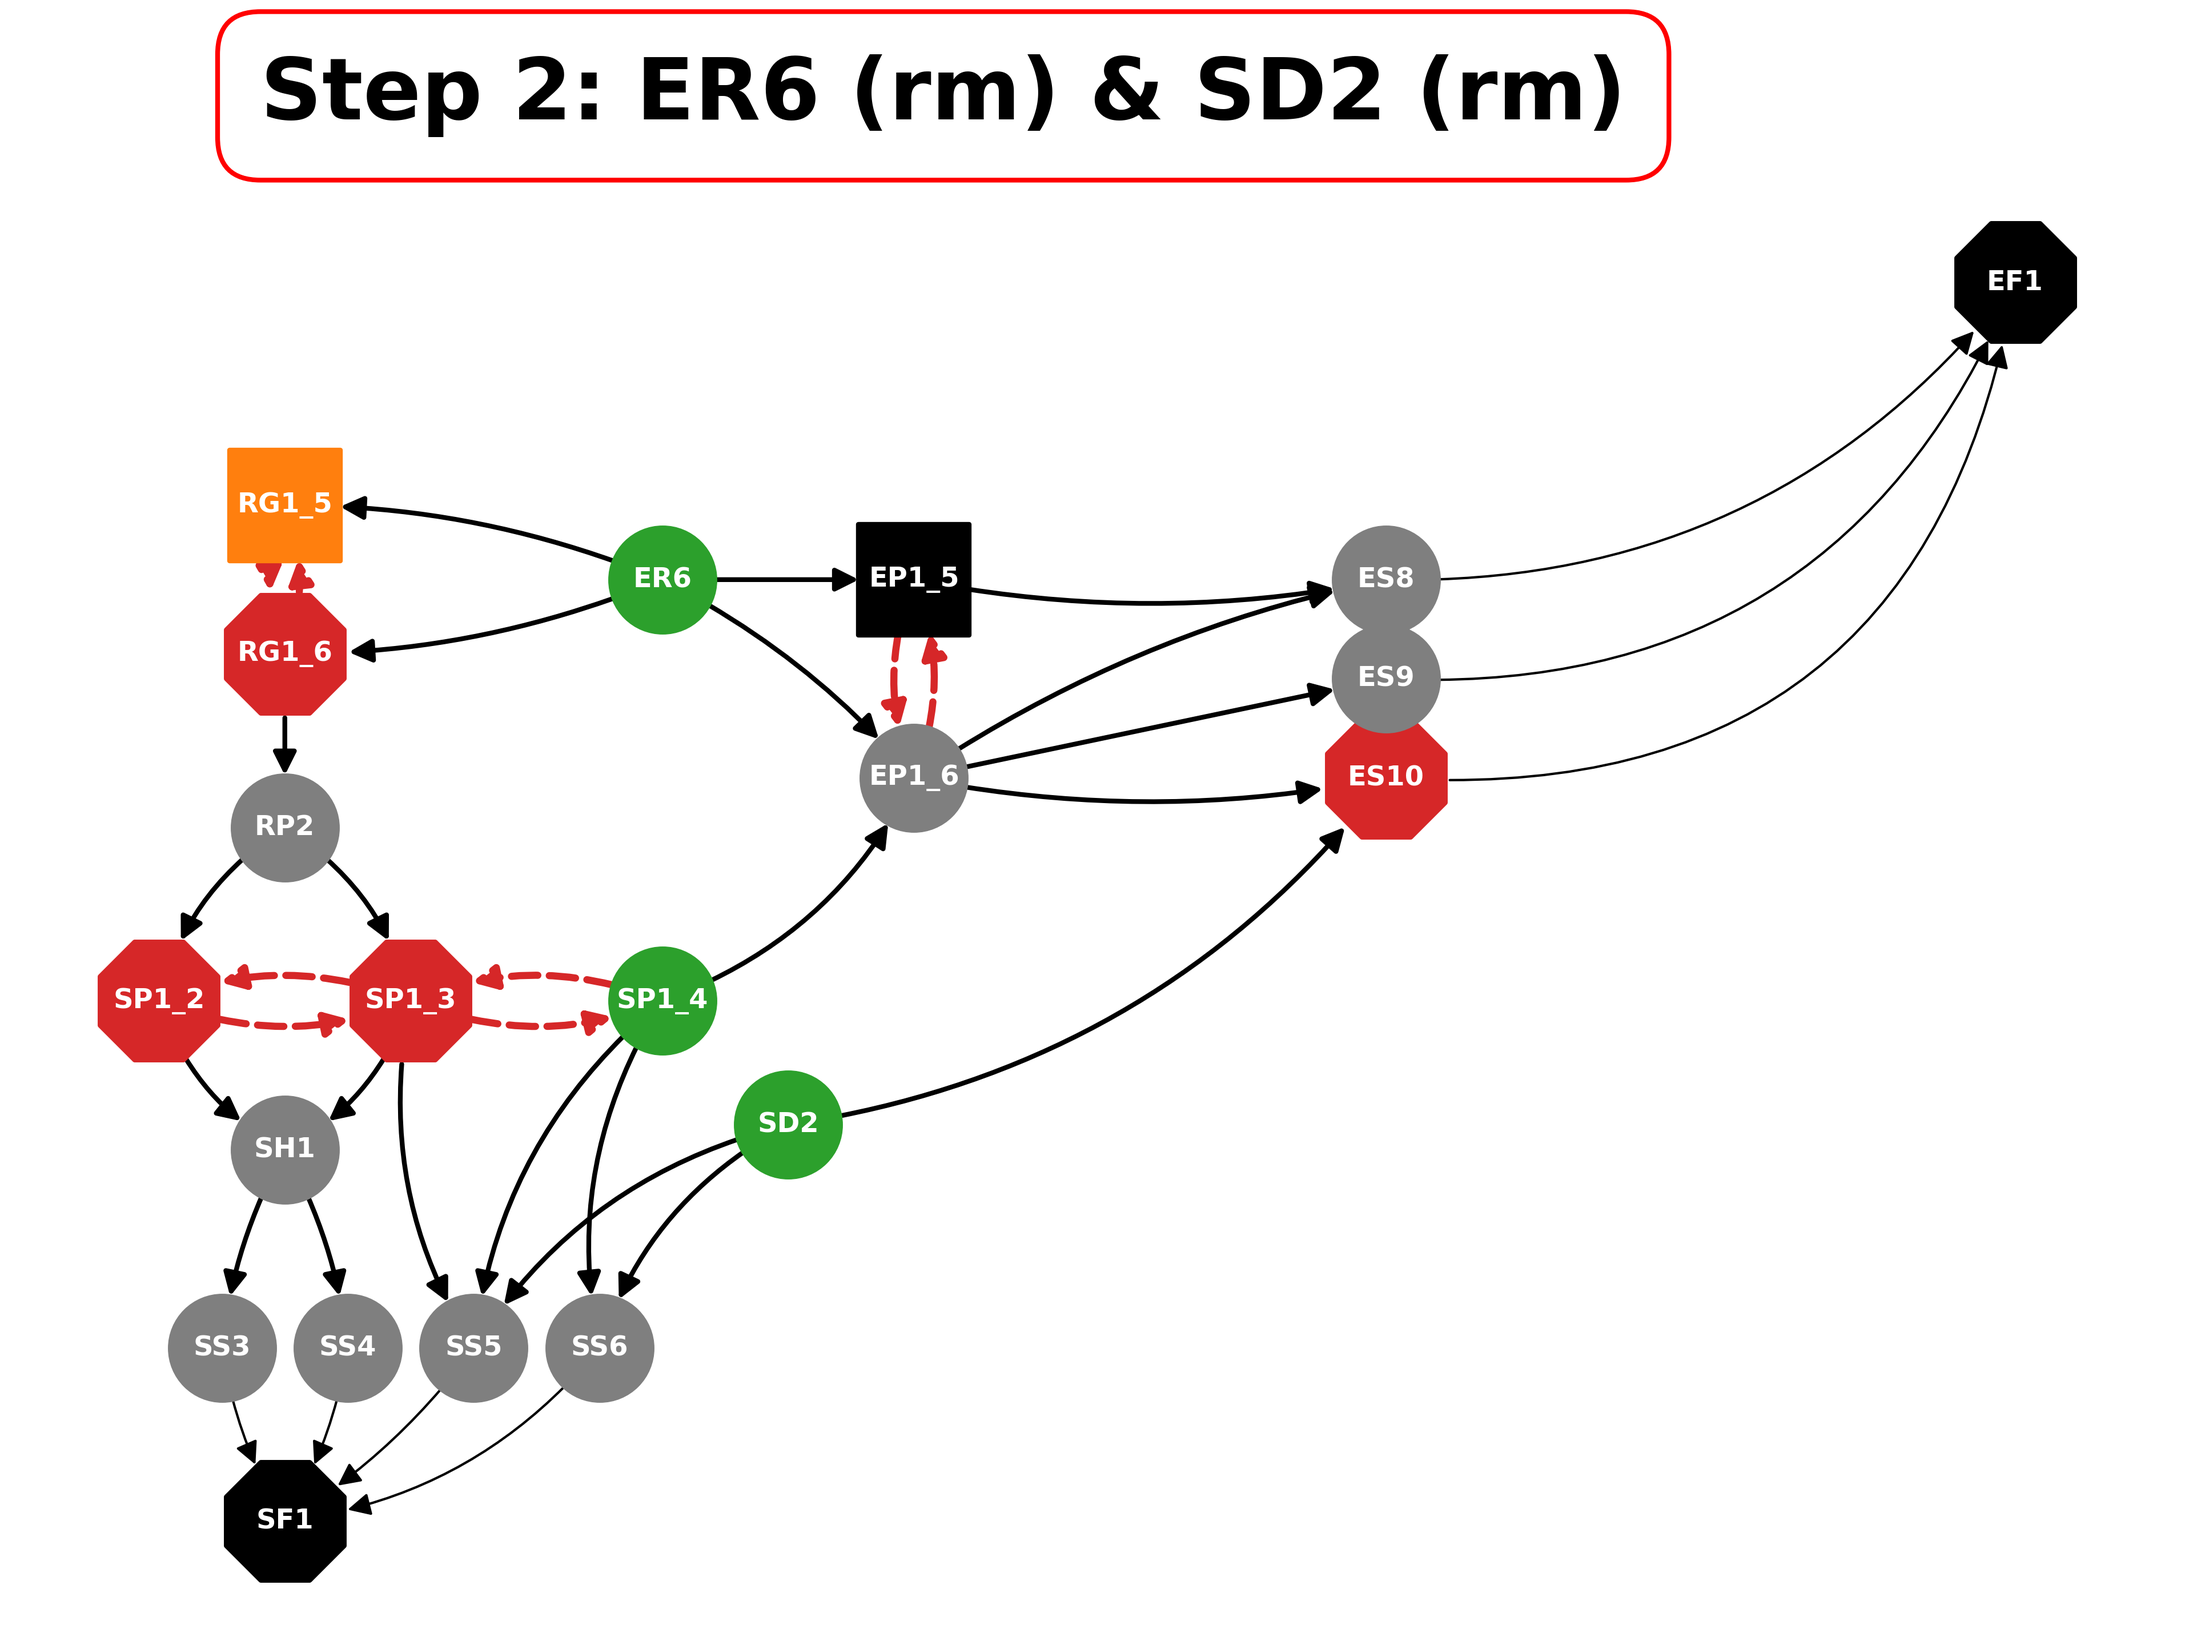
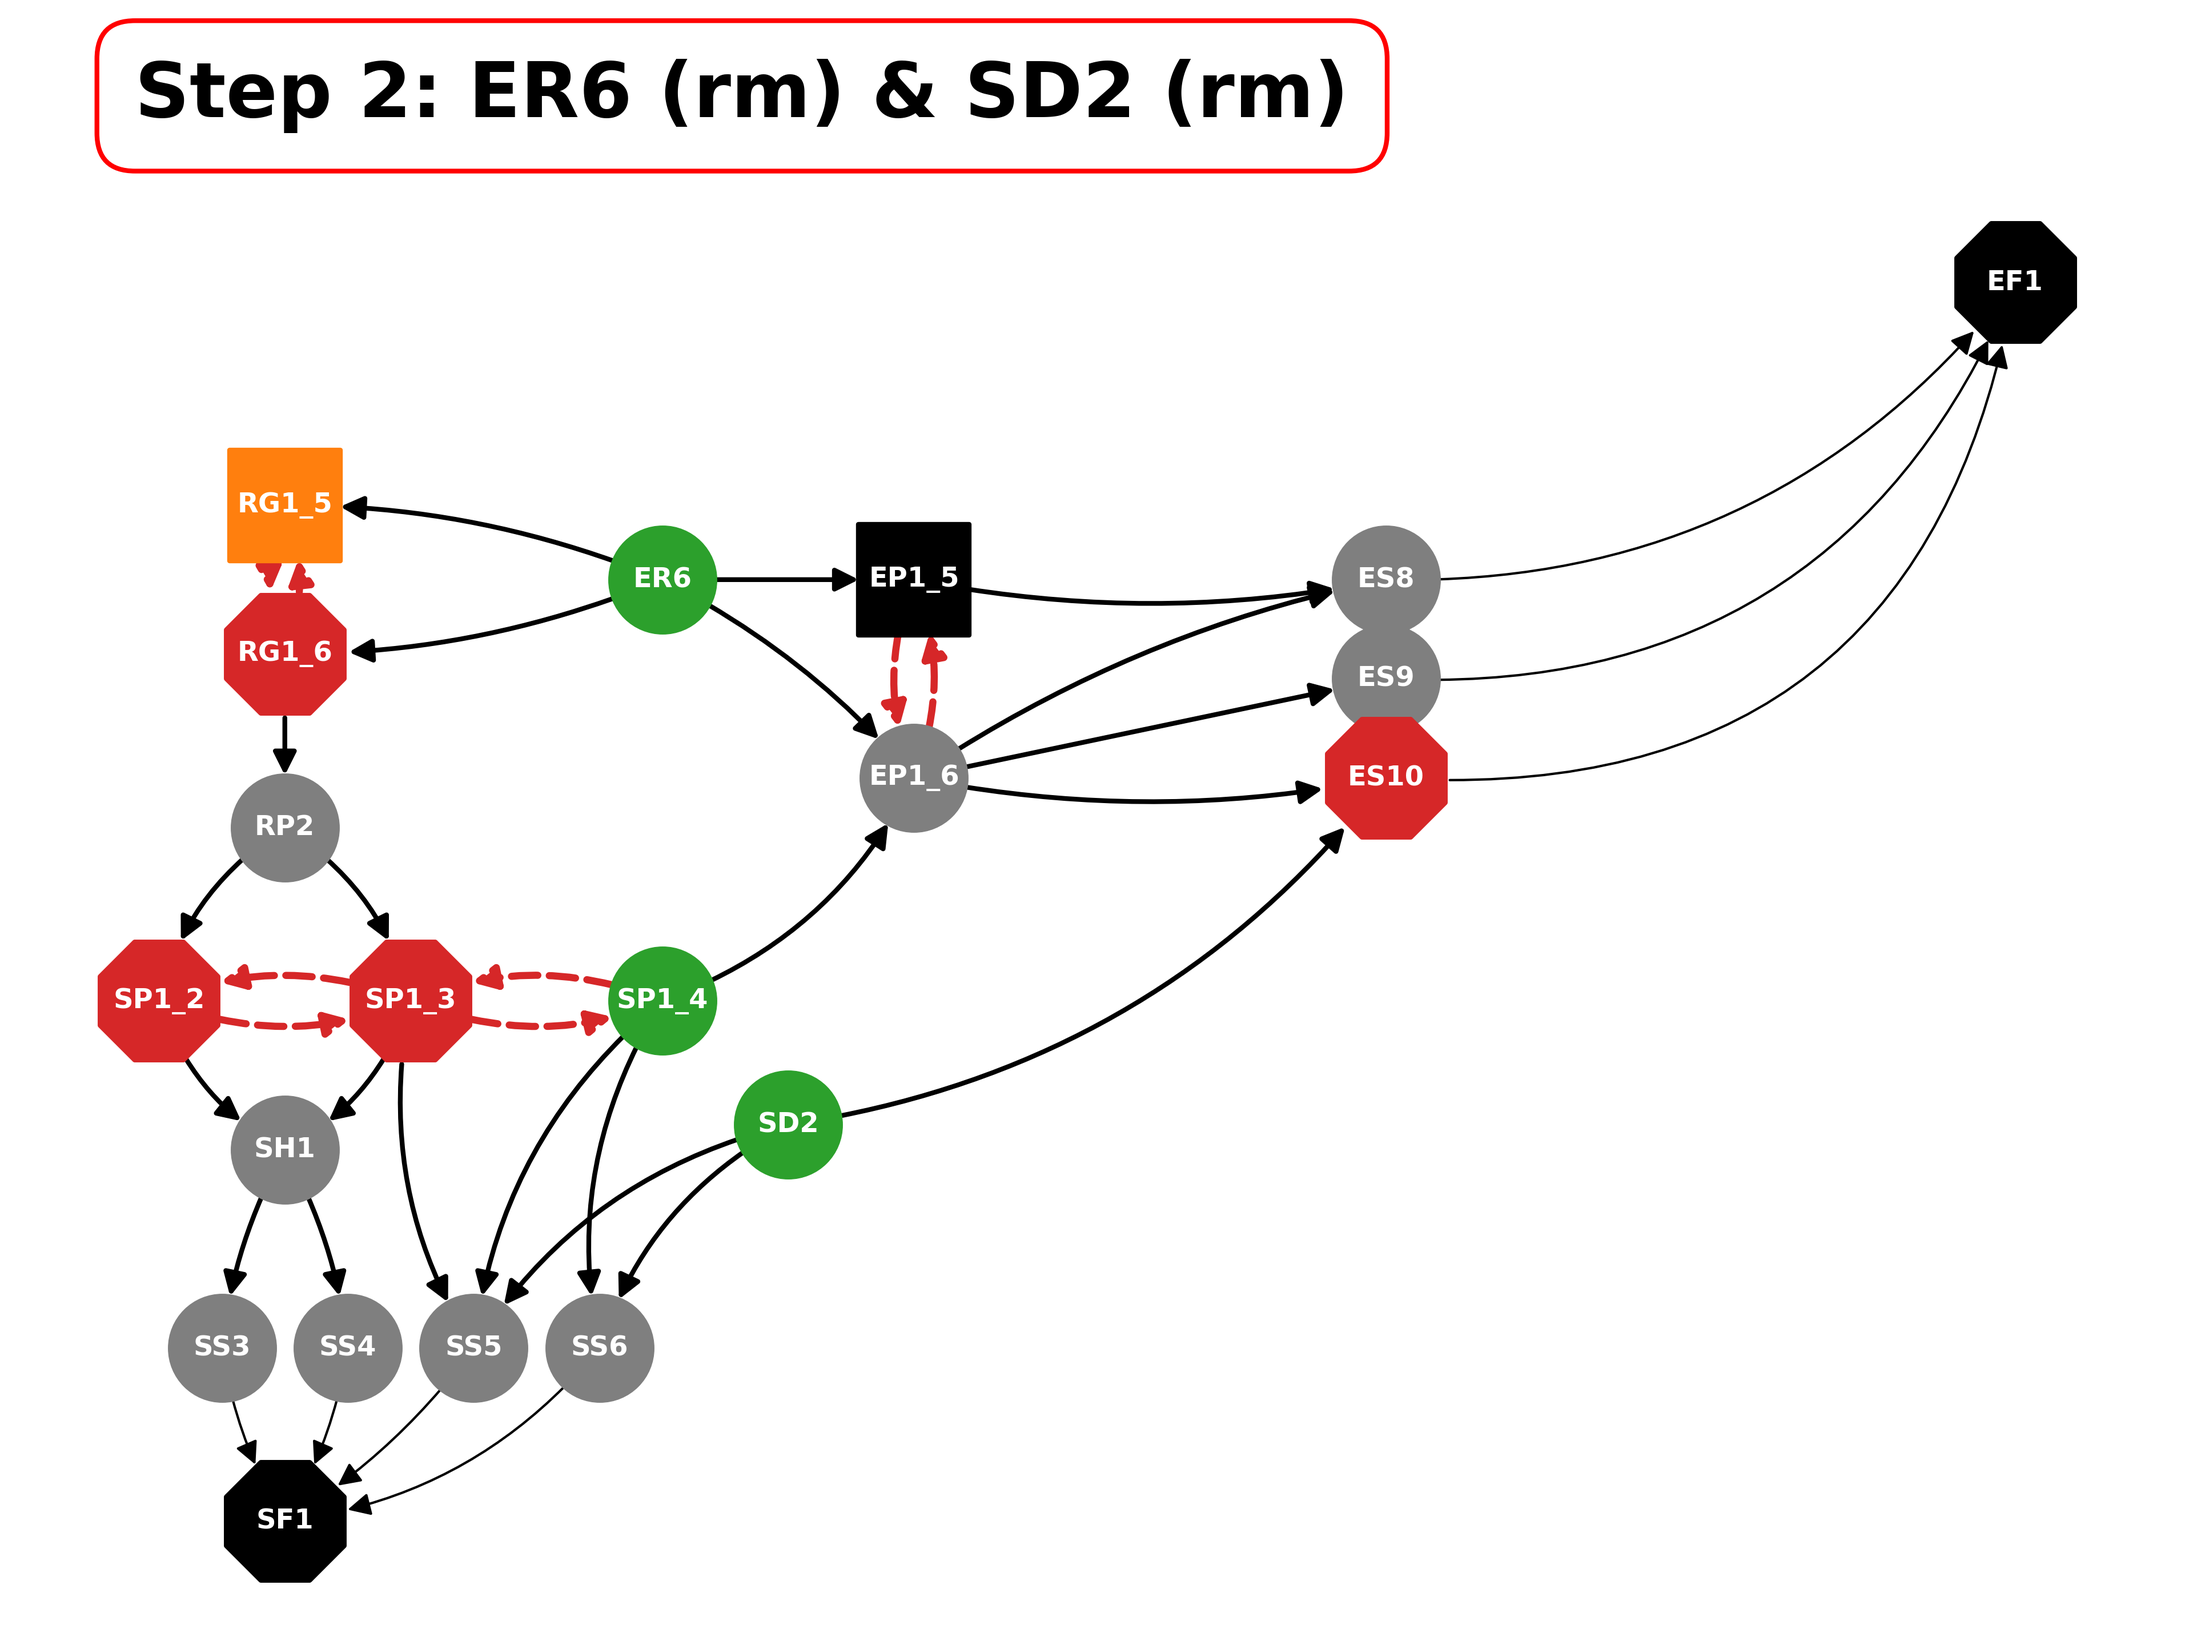
finished phase 2

Changed region(s): [[0.0625, 0.0, 0.75, 0.125], [0.625, 0.4375, 0.6562, 0.4688]]

diff --git a/main.py b/main.py
@@ -10,7 +10,7 @@ from src.drawing import draw_graph
 
 
 if __name__ == "__main__":
-    phase_number = "2a"
+    phase_number = "2b"
     num_agents = 3
     f_in = "P{}_data_in".format(phase_number)
     f_out = "P{}_graphs_out".format(phase_number)
@@ -33,10 +33,10 @@ if __name__ == "__main__":
     # rm_membs = ["SS1"]  # Phase 1
     # rm_membs = ["WS9", "SS1"]  # Phase 1
     # rm_membs = ["SS3", "SS1"]  # Phase 1
-    rm_membs = ["SP1_2", "SP1_3", "SP1_4"]  # Phase 2a_1
-    rm_membs = ["SP1_4", "ES10", "SP1_2", "SP1_3"]  # Phase 2a_2
-    rm_membs = ["SP1_4", "ES10", "SP1_2", "SP1_3", "RG1_6"]  # Phase 2a_3
-    # rm_membs = ["SP1_2", "SP1_3", "RG1_6"]  # Phase 2b
+    # rm_membs = ["SP1_2", "SP1_3", "SP1_4"]  # Phase 2a_1
+    # rm_membs = ["SP1_4", "ES10", "SP1_2", "SP1_3"]  # Phase 2a_2
+    # rm_membs = ["SP1_4", "ES10", "SP1_2", "SP1_3", "RG1_6"]  # Phase 2a_3
+    rm_membs = ["SP1_2", "SP1_3", "RG1_6"]  # Phase 2b
 
     Ks = bld_subg_single_remove(G, rm_membs)
 
@@ -73,7 +73,7 @@ if __name__ == "__main__":
     for i, K_reduced in enumerate(K_reduced_list):
         draw_graph(
             G=K_reduced,
-            filepath="{}/_{}_STEP{}".format(f_out, name, i + 1),
+            filepath="{}/_{}_STEP{}".format(f_out, name, i + 9),
             scale=1.2,
             plt_show=True,
             plt_save=True,

diff --git a/src/algo_sequence.py b/src/algo_sequence.py
@@ -20,6 +20,16 @@ def _make_graph_title(step, nodes, nodes_robfxd):
         text = "Step {}: {} (rs) & {} (rs)".format(step, nodes_robfxd[0], nodes_robfxd[1])
     elif n_rmv == 1 and n_sup == 1:
         text = "Step {}: {} (rm) & {} (rs)".format(step, nodes[0], nodes_robfxd[0])
+    elif n_rmv == 2 and n_sup == 1:
+        text = "Step {}: {} (rm) & {} (rm) {} (rs)".format(
+            step, nodes[0], nodes[1], nodes_robfxd[0]
+        )
+    elif n_rmv == 1 and n_sup == 2:
+        text = "Step {}: {} (rm) & {} (rs) {} (rs)".format(
+            step, nodes[0], nodes_robfxd[0], nodes_robfxd[1]
+        )
+    else:
+        text = "none"
 
     return text
 

diff --git a/src/drawing.py b/src/drawing.py
@@ -167,10 +167,10 @@ def draw_graph(G, filepath, scale=1, plt_show=False, plt_save=False, plt_text=Fa
 
     if plt_text:
         plt.text(
-            x=0.10,
+            x=0.04,
             y=1.07,
             s=G.graph["title"],
-            fontsize=18,
+            fontsize=16,
             fontweight="bold",
             ha="left",
             va="center",

diff --git a/src/build.py b/src/build.py
@@ -182,7 +182,7 @@ def bld_sequence(K, rm_membs, num_agents):
 
     K_reduced = K.copy()
     saved_K, saved_seq = [], []
-    step = 0
+    step = 8
 
     while True:
         step += 1
